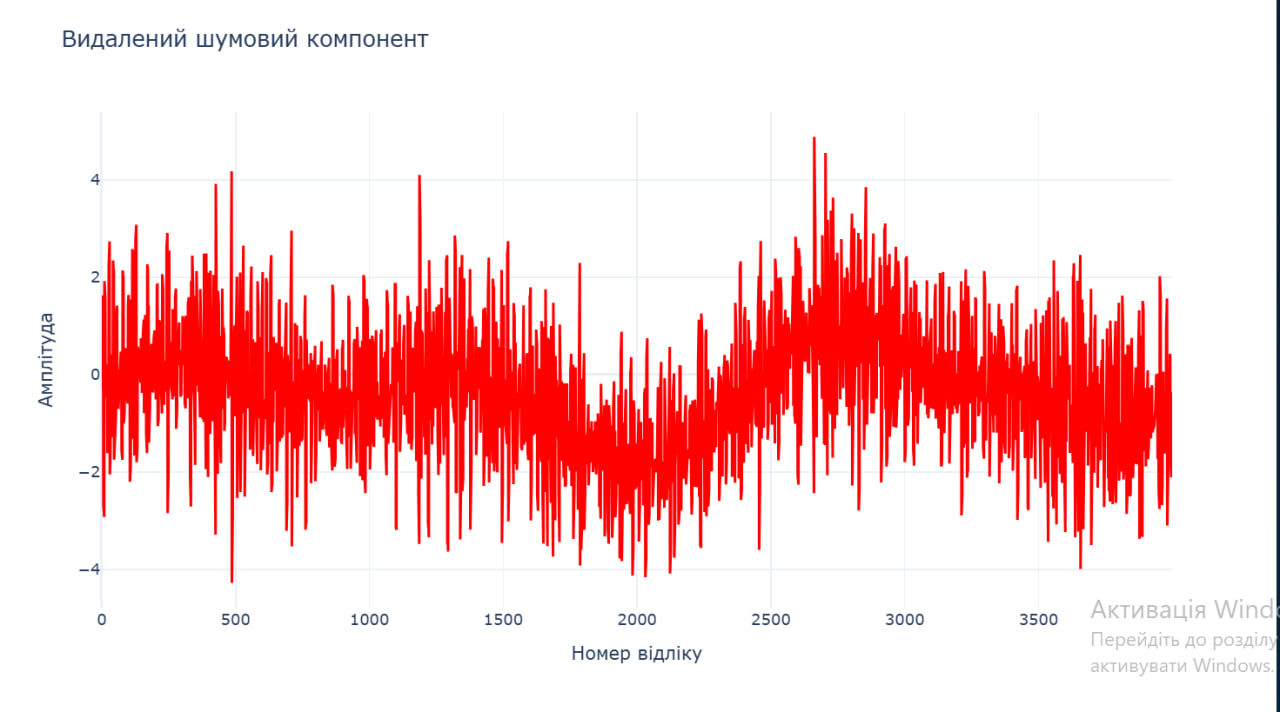
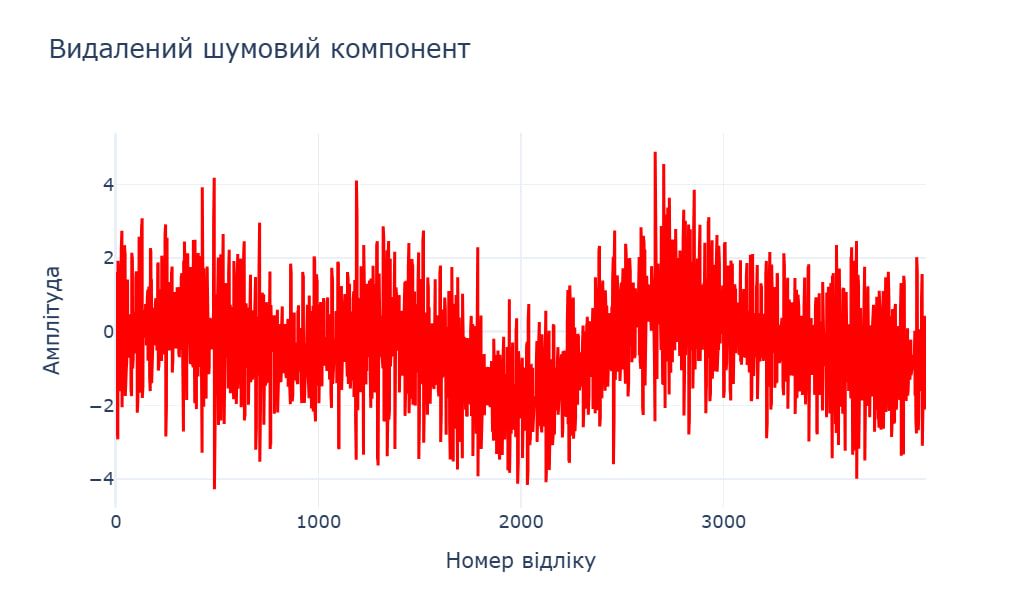
Updated project

diff --git a/app.py b/app.py
@@ -110,6 +110,4 @@ def download_report():
 
 
 if __name__ == "__main__":
-    import os
-    port = int(os.environ.get("PORT", 5000))
-    app.run(host="0.0.0.0", port=port)
+    app.run(debug=True)

diff --git a/README.md b/README.md
@@ -192,7 +192,7 @@ http://127.0.0.1:5000
 - Сторінка результатів аналізу
 ![Сторінка результатів](screenshots/Сторінка_результатів.png)
 - Вкладки з графіками
-![Оброблений сигнал](screenshots/Оброблений_сигнал.jpg)
+![Оброблений сигнал](screenshots/оброблений_сигнал.jpg)
 ![Шум](screenshots/Шум.jpg)
 ![Спектральний аналіз](screenshots/спектральний_аналіз.jpg)
 ![R-піки](screenshots/піки.jpg)
